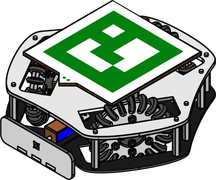
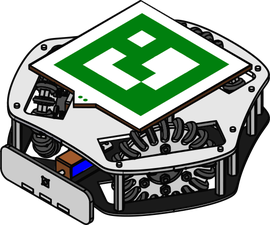
Header animé : les 4 robots découpés naviguent dans le hero
- suppression de la bannière logo.jpeg en haut de page
- images/robots.png découpé en robot1..4.png (détection des colonnes par alpha,
  export LANCZOS à 2,5x la taille d'affichage pour un rendu net)
- hero découpé en trois bandes : les robots roulent dans les couloirs haut et
  bas, jamais sous le texte
- ombre portée dessinée en CSS au sol plutôt qu'en filter: drop-shadow, et bob
  réduit à une translation pure : plus de ré-échantillonnage du PNG à chaque
  frame, donc plus d'aliasing pendant l'animation
- fantômes qui dérivent, citrouilles et chauves-souris flottantes, ballons qui
  rebondissent et ballon poussé par le gros robot
- tout est figé proprement sous prefers-reduced-motion

Claude-Session: https://claude.ai/code/session_018JhezgWGgTuFmzKsF7nS83

diff --git a/index.html b/index.html
@@ -171,7 +171,7 @@
       user-select: none;
     }
     .lane-top    { height: 158px; }
-    .lane-bottom { height: 200px; }
+    .lane-bottom { height: 216px; }
 
     .hero-content {
       flex: 1 0 auto;
@@ -193,20 +193,32 @@
       display: block;
       width: 100%;
       height: auto;
-      filter: drop-shadow(0 10px 12px rgba(0,0,0,.45));
-      backface-visibility: hidden;
+      /* translation pure : le compositeur n'a pas à ré-échantillonner l'image */
       animation: bob 2.4s ease-in-out infinite;
+    }
+    .bot.flip img { transform: scaleX(-1); }
+
+    /* Ombre portée au sol, dessinée à part */
+    .bot::after {
+      content: "";
+      position: absolute;
+      left: 8%;
+      right: 8%;
+      bottom: -6px;
+      height: 16px;
+      border-radius: 50%;
+      background: radial-gradient(ellipse at center, rgba(0,0,0,.5) 0%, rgba(0,0,0,.28) 45%, transparent 72%);
+      animation: shade 2.4s ease-in-out infinite;
     }
 
     @keyframes bob {
-      0%, 100% { transform: translateY(0)     rotate(-1deg); }
-      50%      { transform: translateY(-10px) rotate(1deg); }
+      0%, 100% { transform: translateY(0); }
+      50%      { transform: translateY(-9px); }
     }
-    @keyframes bob-flip {
-      0%, 100% { transform: scaleX(-1) translateY(0)     rotate(1deg); }
-      50%      { transform: scaleX(-1) translateY(-10px) rotate(-1deg); }
+    @keyframes shade {
+      0%, 100% { opacity: 1;  transform: scaleX(1); }
+      50%      { opacity: .6; transform: scaleX(.88); }
     }
-    .bot.flip img { animation-name: bob-flip; }
 
     @keyframes drive-right {
       from { transform: translateX(-28vw); }
@@ -217,13 +229,13 @@
       to   { transform: translateX(-28vw); }
     }
 
-    .bot-1 { bottom: 8px;  width: 128px; animation: drive-right 21s linear infinite; }
-    .bot-4 { top: 2px;     width: 88px;  animation: drive-left  33s linear infinite -17s; opacity: .8; }
-    .bot-2 { top: 6px;     width: 108px; animation: drive-left  27s linear infinite -9s; opacity: .92; }
-    .bot-3 { bottom: 4px;  width: 168px; animation: drive-right 17s linear infinite -6s; }
-    .bot-2 img { animation-duration: 3.1s; }
-    .bot-3 img { animation-duration: 1.9s; }
-    .bot-4 img { animation-duration: 3.6s; }
+    .bot-1 { bottom: 30px; width: 128px; animation: drive-right 21s linear infinite; }
+    .bot-4 { top: 6px;     width: 88px;  animation: drive-left  33s linear infinite -17s; opacity: .8; }
+    .bot-2 { top: 10px;    width: 108px; animation: drive-left  27s linear infinite -9s; opacity: .92; }
+    .bot-3 { bottom: 26px; width: 168px; animation: drive-right 17s linear infinite -6s; }
+    .bot-2 img, .bot-2::after { animation-duration: 3.1s; }
+    .bot-3 img, .bot-3::after { animation-duration: 1.9s; }
+    .bot-4 img, .bot-4::after { animation-duration: 3.6s; }
 
     /* Ballon poussé par le gros robot */
     .bot .ball {
@@ -281,7 +293,7 @@
 
     @media (max-width: 767.98px) {
       .lane-top    { height: 104px; }
-      .lane-bottom { height: 132px; }
+      .lane-bottom { height: 148px; }
       .bot-1 { width: 84px; }
       .bot-2 { width: 70px; }
       .bot-3 { width: 108px; }
@@ -531,8 +543,8 @@
 <header id="hero">
   <!-- Couloir haut -->
   <div class="lane lane-top" aria-hidden="true">
-    <div class="bot bot-4 flip"><img src="images/robot4.png" alt="" width="176" height="147" /></div>
-    <div class="bot bot-2 flip"><img src="images/robot2.png" alt="" width="216" height="180" /></div>
+    <div class="bot bot-4 flip"><img src="images/robot4.png" alt="" width="220" height="184" decoding="async" /></div>
+    <div class="bot bot-2 flip"><img src="images/robot2.png" alt="" width="270" height="225" decoding="async" /></div>
     <span class="ghost" style="top:8px;">👻</span>
     <span class="floaty small" style="left:3%;  top:4px;  animation-delay:.4s;">🕸</span>
     <span class="floaty small" style="left:95%; top:6px;  animation-delay:1.5s;">🕸</span>
@@ -569,12 +581,12 @@
 
   <!-- Couloir bas -->
   <div class="lane lane-bottom" aria-hidden="true">
-    <div class="bot bot-1"><img src="images/robot1.png" alt="" width="256" height="215" /></div>
+    <div class="bot bot-1"><img src="images/robot1.png" alt="" width="320" height="268" decoding="async" /></div>
     <div class="bot bot-3">
-      <img src="images/robot3.png" alt="" width="336" height="281" />
+      <img src="images/robot3.png" alt="" width="420" height="351" decoding="async" />
       <span class="ball">⚽</span>
     </div>
-    <span class="ghost g2" style="bottom:12px;">👻</span>
+    <span class="ghost g2" style="top:6px;">👻</span>
     <span class="floaty big"   style="left:5%;  bottom:6px;  animation-delay:0s;">🎃</span>
     <span class="floaty big"   style="left:90%; bottom:10px; animation-delay:1.9s;">🎃</span>
     <span class="bouncer"      style="left:30%; bottom:8px;  animation-delay:0s;">⚽</span>
